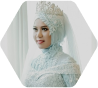
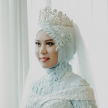
Fix masking of all photos in #4 Template

diff --git a/app/assets/stylesheets/fourthtemplate/fourthtemplate-couple.scss b/app/assets/stylesheets/fourthtemplate/fourthtemplate-couple.scss
@@ -55,26 +55,55 @@ span,p {font-size: 12px;}
     margin-bottom: 16px;
   }
 
-  .wrapper-image{
+  #wrapper-groom, #wrapper-bride{
     display: flex;
-    justify-content: center;
+    flex-direction: column;
     align-items: center;
-    margin-bottom: 8px;
 
-    .groom-image, .bride-image{position: absolute;}
-  }
+    .wrapper-image{
+      display: flex;
+      justify-content: center;
+      align-items: center;
+      width: 112px;
+      height: 112px;
+      margin-bottom: 8px;
 
-  .title{
-    font-family: 'DM Serif Display', serif;
-    margin-bottom: 0;
-  }
+      .groom-image, .bride-image{
+        position: absolute;
+        width: 100px;
+      }
 
-  .sub-title{
-    font-family: 'Noto Serif', serif;
-    font-weight: 400;
-    background: $gradient-gold;
-    background-clip: text;
-    -webkit-text-fill-color: transparent;
+      &::before{
+        content: "";
+        background: url("fourthtemplate/mask-shape.png");
+        background-size: 102px;
+        width: 102px;
+        height: 102px;
+        position: absolute;
+        z-index: 1;
+      }
+
+      .frame{
+        width: 112px;
+        position: absolute;
+        z-index: 2;
+      }
+    }
+
+    .wrapper-text{
+      .title{
+        font-family: 'DM Serif Display', serif;
+        margin-bottom: 0;
+      }
+
+      .sub-title{
+        font-family: 'Noto Serif', serif;
+        font-weight: 400;
+        background: $gradient-gold;
+        background-clip: text;
+        -webkit-text-fill-color: transparent;
+      }
+    }
   }
 
   #separator-line{

diff --git a/app/assets/stylesheets/fourthtemplate/fourthtemplate-gift.scss b/app/assets/stylesheets/fourthtemplate/fourthtemplate-gift.scss
@@ -51,18 +51,30 @@ span,p {font-size: 12px;}
 
   .group-image{
     width: 100%;
+    height: 50%;
     position: relative;
     display: flex;
+    justify-content: center;
 
     .custom-carousel{
       width: 100%;
+      height: calc(100% - 1px);
 
       .custom-inner{
         overflow: visible;
         display: flex;
         align-items: center;
+        height: 100%;
 
-        .custom-carousel-image {width: 100%;}
+        .custom-item{
+          height: 100%;
+        
+          .custom-image {
+            width: 100%;
+            height: 100%;
+            object-fit: cover;
+          }
+        }
 
         .custom-prev, .custom-next{
           opacity: 1;
@@ -98,7 +110,7 @@ span,p {font-size: 12px;}
 
       .custom-indicators{
         position: static;
-        margin-top: 24px;
+        margin-top: 12px;
         margin-bottom: 0;
   
         .indicator-btn{
@@ -112,9 +124,17 @@ span,p {font-size: 12px;}
       }
     }
     
-    .custom-carousel-border{
+    .frame{
       position: absolute;
       width: 100%;
+      bottom: 0;
+      z-index: 2;
+    }
+
+    .custom-mask{
+      width: 100%;
+      position: absolute;
+      bottom: 0;
     }
   }
 

diff --git a/app/assets/stylesheets/fourthtemplate/fourthtemplate.scss b/app/assets/stylesheets/fourthtemplate/fourthtemplate.scss
@@ -39,15 +39,36 @@ span,p {font-size: 12px;}
   justify-content: center;
   flex-direction: column;
   height: calc(100vh - 86px);
+  align-items: center;
 
   .wrapper-image{
     display: flex;
     justify-content: center;
     align-items: center;
-    margin-bottom: 20px;
+    width: 256px;
+    height: 256px;
 
     .couple-image{
       position: absolute;
+      width: 238px;
+      height: 238px;
+      object-fit: cover;
+    }
+    
+    &::before{
+      content: "";
+      background: url("fourthtemplate/mask-shape.png");
+      background-size: 240px;
+      width: 240px;
+      height: 240px;
+      position: absolute;
+      z-index: 1;
+    }
+
+    .frame{
+      width: 256px;
+      position: absolute;
+      z-index: 2;
     }
   }
 

diff --git a/app/assets/stylesheets/fourthtemplate/fourthtemplate-location.scss b/app/assets/stylesheets/fourthtemplate/fourthtemplate-location.scss
@@ -97,11 +97,24 @@ span,p {font-size: 12px;}
       align-items: center;
       margin-bottom: 12px;
 
-      .image-frame{width: 160px;}
-
       .couple-image{
         position: absolute;
+        width: 148px;
+      }
+
+      &::before{
+        content: "";
+        background: url("fourthtemplate/mask-shape.png");
+        background-size: 150px;
         width: 150px;
+        height: 150px;
+        z-index: 1;
+      }
+
+      .frame{
+        position: absolute;
+        width: 160px;
+        z-index: 2;
       }
     }
 
